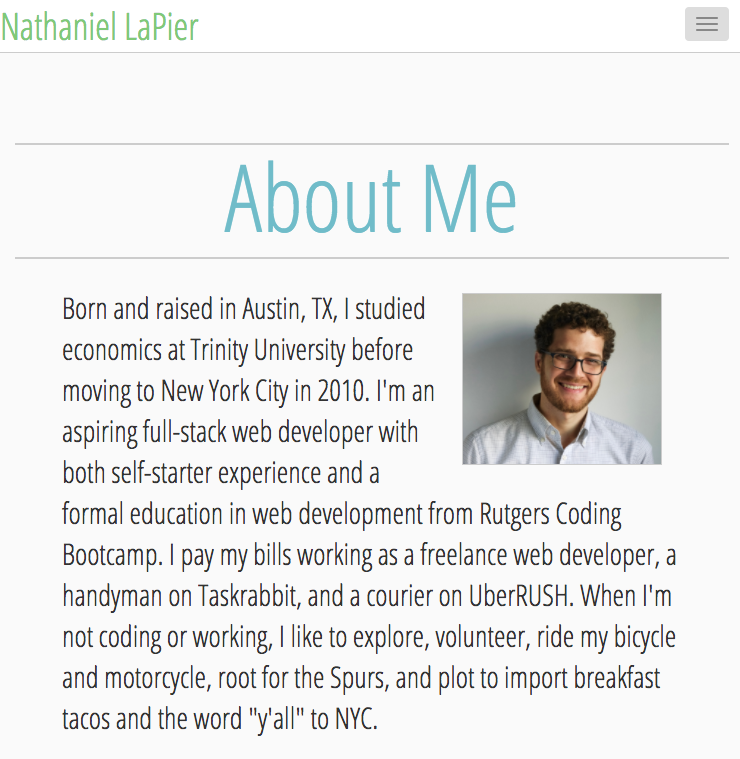
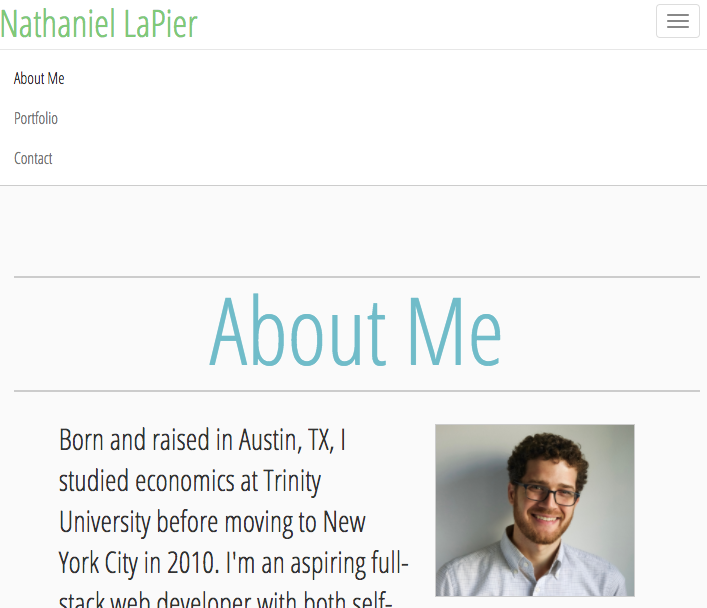
merging and pushing

diff --git a/src/text.js b/src/text.js
@@ -39,8 +39,8 @@ const text = {
 			text: "A complete rewrite of Rutgers Coding Bootcamp's student portal using React, Node, Express and MySQL."
 		},
 		{
-			title: "This Portfolio!",
-			text: "A basic 'WREN'(Webpack-React-Express-Node) webpage.",
+			title: "My Portfolio",
+			text: "This website: A basic responsive 'WREN'(Webpack-React-Express-Node) webpage.",
 			img: "/assets/images/portfolio.png",
 			url: "https://github.com/nlapier/react-portfolio",
 			github: "https://github.com/nlapier/react-portfolio"
